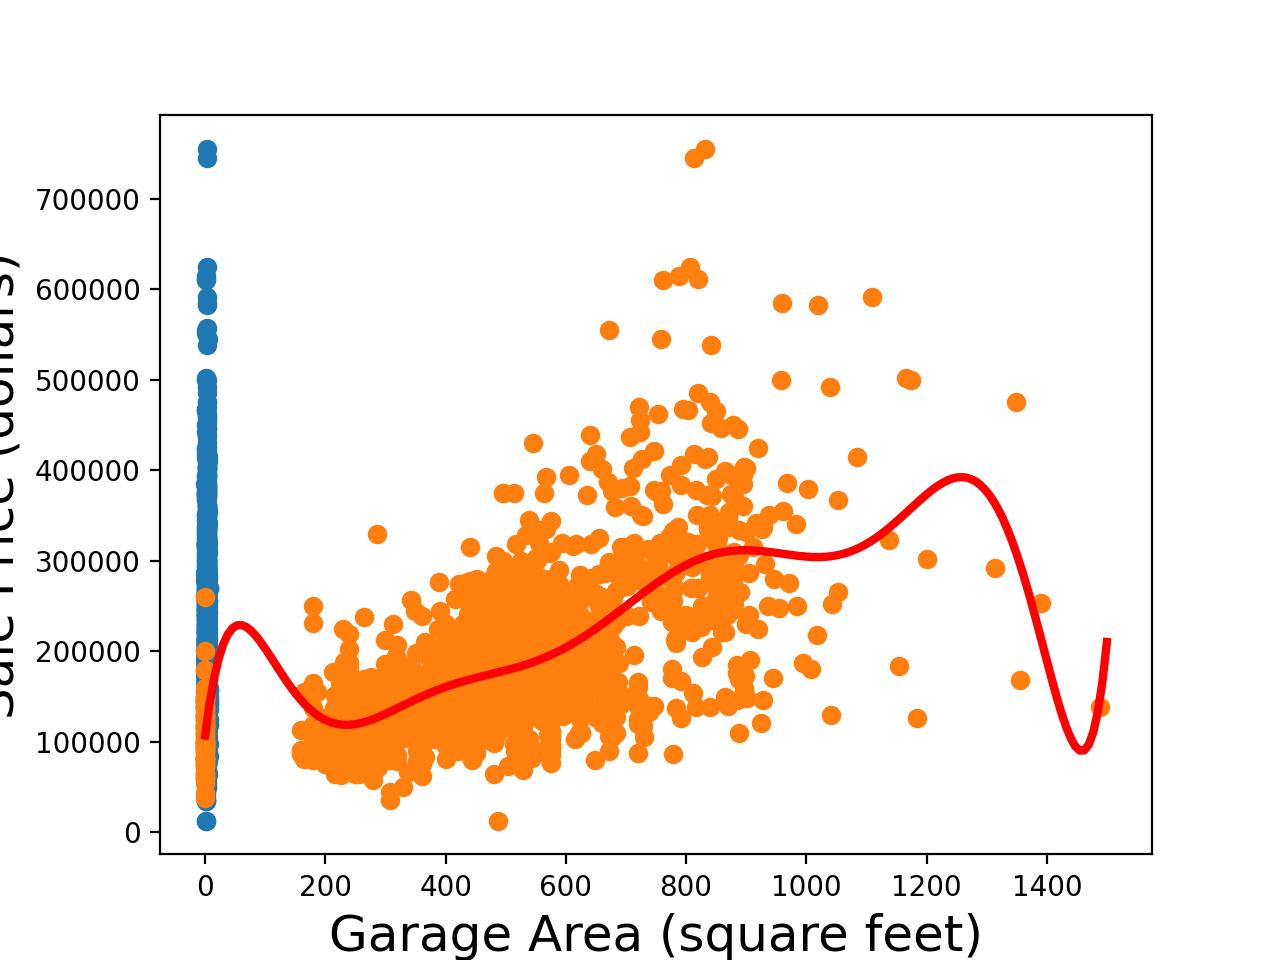
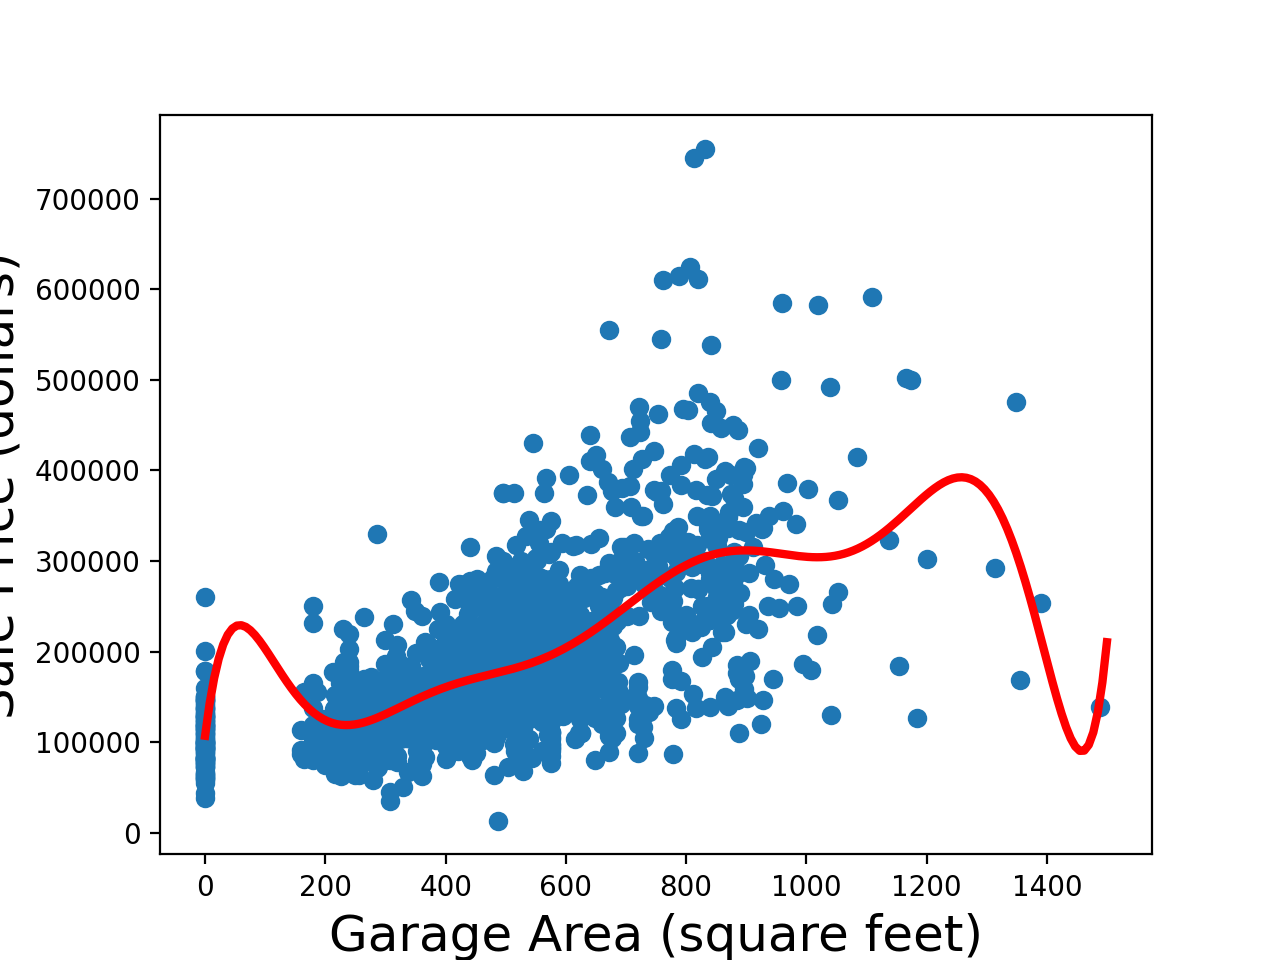
plotting ridge regression

diff --git a/src/modelling.py b/src/modelling.py
@@ -118,7 +118,7 @@ plt.savefig("graphs/Bedroom_AbvGr")
 
 # format training data
 x_Traingarage = X_train['Garage Area'].values.reshape(-1,1)
-y_Traingarage = y_train.values.reshape(-1,1)
+y_Train_reshape = y_train.values.reshape(-1,1)
 
 pipe_garage_area = preprocess.fit(x_Traingarage)
 
@@ -127,41 +127,47 @@ Poly = PolynomialFeatures(degree = 10, include_bias = False)
 xTrainPoly = Poly.fit_transform(x_Traingarage)
 xTrainPolyscale = scaler.fit_transform(xTrainPoly)
 
-
 #models
-chosen_model = LinearRegression()
+reg_model = LinearRegression()
 ridge_model = Ridge()
 lasso_model = Lasso()
 elastic_model = ElasticNet()
 
-#fit model to polynomial
-chosen_model.fit(xTrainPolyscale, y_Traingarage)
-ridge_model.fit(xTrainPolyscale, y_Traingarage)
-lasso_model.fit(xTrainPolyscale, y_Traingarage)
-elastic_model.fit(xTrainPolyscale, y_Traingarage)
-
+#linear regression
+reg_model.fit(xTrainPolyscale, y_Train_reshape)
 #predict linear model
 xFit = np.linspace(0,1500,num=200).reshape(-1,1)
 xFitPoly = Poly.transform(xFit)
-xFitPolyStan = scaler.transform(xFitPoly)
+xFitPolyscale = scaler.transform(xFitPoly)
+yFit_reg = reg_model.predict(xFitPolyscale)
 
-yFit_linear = chosen_model.predict(xTrainPolyscale)
-yFit_ridge = ridge_model.predict(xTrainPolyscale)
-yFit_lasso = lasso_model.predict(xTrainPolyscale)
-yFit_elastic = elastic_model.predict(xTrainPolyscale)
-
-#plot results linear model (chosen_model)
-plt.plot(xFit,yFit_linear, lw=3, color='r', zorder = 2)
+#plot results linear model
+plt.figure()
+plt.plot(xFit,yFit_reg, lw=3, color='r', zorder = 2)
 plt.scatter(X_train['Garage Area'], y_train)
 plt.ylabel('Sale Price (dollars)', fontsize = 18)
 plt.xlabel('Garage Area (square feet)', fontsize = 18)
 plt.savefig("graphs/linear_garage_area")
 
+
+#fit model to polynomial
+#reg_model.fit(xTrainPolyscale, y_Traingarage)
+#ridge_model.fit(xTrainPolyscale, y_Traingarage)
+#lasso_model.fit(xTrainPolyscale, y_Traingarage)
+#elastic_model.fit(xTrainPolyscale, y_Traingarage)
+
+#predict
+#yFit_linear = reg_model.predict(xTrainPolyscale)
+#yFit_ridge = ridge_model.predict(xTrainPolyscale)
+#Fit_lasso = lasso_model.predict(xTrainPolyscale)
+#yFit_elastic = elastic_model.predict(xTrainPolyscale)
+
+
 #make predictions on the test set
-y_pred_linear = chosen_model.predict(X_test)
-y_pred_ridge = ridge_model.predict(X_test)
-y_pred_lasso = lasso_model.predict(X_test)
-y_pred_elastic = elastic_model.predict(X_test)
+#y_pred_linear = reg_model.predict(X_test)
+#y_pred_ridge = ridge_model.predict(X_test)
+#y_pred_lasso = lasso_model.predict(X_test)
+#y_pred_elastic = elastic_model.predict(X_test)
 
 
 #Ridge Regression on Garage Area
@@ -171,19 +177,20 @@ color = ['r', 'g', 'orange']
 
 for a in [0, 2, 2000]:
     ridgeReg = Ridge(alpha=a)
-    ridgeReg.fit(xTrainPolyStan, y_train)
+    ridgeReg.fit(xTrainPolyscale, y_train)
 
     # predict
     xFit2 = np.linspace(0, 1500, num=200).reshape(-1, 1)
     xFitPoly2 = Poly.transform(xFit2)
-    xFitPolyStan2 = scaler.transform(xFitPoly2)
-    yFit2 = ridgeReg.predict(xFitPolyStan2)
+    xFitPolyscale2 = scaler.transform(xFitPoly2)
+    yFit2 = ridgeReg.predict(xFitPolyscale2)
 
     # plot ridge - garage area
     plt.figure()
     plt.plot(xFit2, yFit2, lw=3, color=color[i], zorder=2, label="alpha = " + str(a), linestyle=ls[i])
     i = i + 1
-    plt.scatter(X_train['Garage Area'], y_train, marker='o', color='b', linestyle='', zorder=1)
+    plt.scatter(X_train['Garage Area'], y_train)
+    plt.plot(xFit, yFit_reg, lw=3, color='r', zorder=2)
     plt.ylabel('Sale Price (dollars)', fontsize = 18)
     plt.xlabel('Garage Area (square feet)', fontsize = 18)
     plt.savefig("graphs/ridge_garage_area")
@@ -247,15 +254,9 @@ plt.savefig("graphs/scatter training")
 
 
 
-
-
 #Early Stopping
-
 
 #Interpreting Learning Curves
 
-#RidgeRegression = Ridge(alpha= 5, fit_intercept= True, solver= 'svd')
-#plot_learning_curves(RidgeRegression, X_test, y_test)
-#save_fig("graphs/learningcurve_ridge")
 
 
